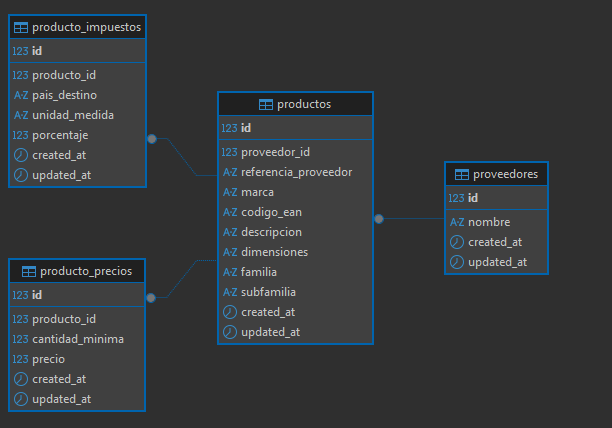
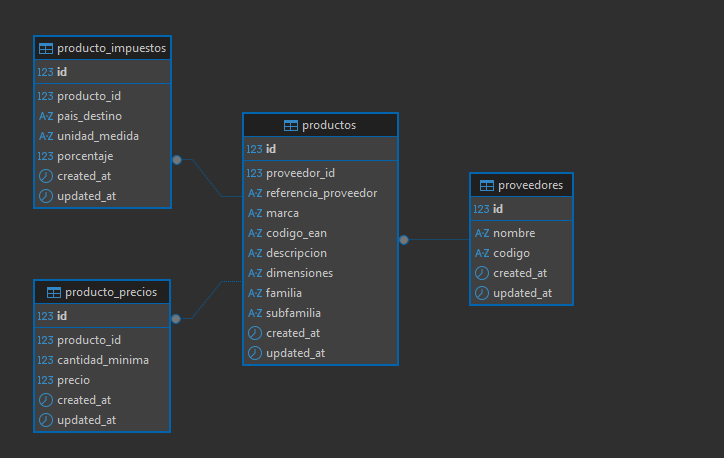
fix:readme33

Changed region(s): [[0.2794, 0.2126, 0.9003, 0.8201], [0.0, 0.0304, 0.2794, 0.4556], [0.0, 0.5771, 0.2794, 0.972]]

diff --git a/README.md b/README.md
@@ -26,12 +26,18 @@ Opté por un modelo relacional, principalmente para evitar datos duplicados. Que
 - **ProductoPrecios**: los precios por volumen. Es una relación 1:N, así que cada producto puede tener todos los tramos que necesite.
 - **ProductoImpuestos**: lo separé para no mezclar los impuestos con la tabla de productos. De esta forma pueden variar según el país o la unidad sin afectar al resto.
 
+Pensé en guardar los precios y los impuestos como JSON dentro de la misma tabla de productos, que hubiera sido más rápido de armar. Lo descarté porque después consultarlos se vuelve incómodo, filtrar por tramo de precio o por país de destino sobre un campo JSON es mucho más torpe que sobre tablas propias, y justo la consulta es una de las cosas que el sistema tiene que hacer bien. Separarlos en ProductoPrecios y ProductoImpuestos cuesta un poco más al principio pero deja todo consultable con queries normales.
+
 ## Decisiones de diseño
 ![Diagrama de flujo de la importación](diagflu.png)
 
 Toda la lógica de importación quedó en `ImportacionService`. Preferí mantenerla ahí en lugar de cargar el controlador y terminar con algo difícil de mantener.
 
 Para el mapeo de columnas usé un array de configuración en `config/proveedores.php`. Para un sistema grande lo más prolijo sería una clase por proveedor, pero para el alcance de este challenge me pareció excesivo, y probablemente me quitaria demasiado tiempo. Teniendo todos los esquemas en un solo archivo es más fácil ver cómo viene cada proveedor y ajustarlo, en vez de repartir la lógica en muchos archivos casi vacíos.El service consume el array de forma transparente, así que si en algún momento un proveedor necesita una transformación más compleja, se puede pasar ese caso a una clase propia sin reescribir toda la importación.
+
+La alternativa que tenía en la cabeza era una clase por proveedor implementando una interfaz común, que es lo más correcto cuando cada uno necesita lógica propia. Para lo que pide este challenge habría sido un montón de archivos para muy poca lógica real, así que lo dejé planteado como el camino al que migrar si la cosa se complica.
+
+Para leer los Excel usé FastExcel en vez de PhpSpreadsheet directo. PhpSpreadsheet te da control total sobre el archivo (estilos, fórmulas, todo), pero acá no me interesa nada de eso, solo leer filas. FastExcel va por arriba de PhpSpreadsheet pero con una API más simple para justamente esto, y maneja mejor los archivos grandes sin cargarlos enteros en memoria.
 
 Otra cosa que tuve en cuenta es que los Excel de los proveedores casi nunca vienen prolijos, falta una columna, hay celdas vacías, ese tipo de cosas. Para que un dato faltante no tire abajo toda la importación, manejé los campos con ?? e isset, de forma que si algo no está, el producto se guarda igual con lo que sí vino.
 